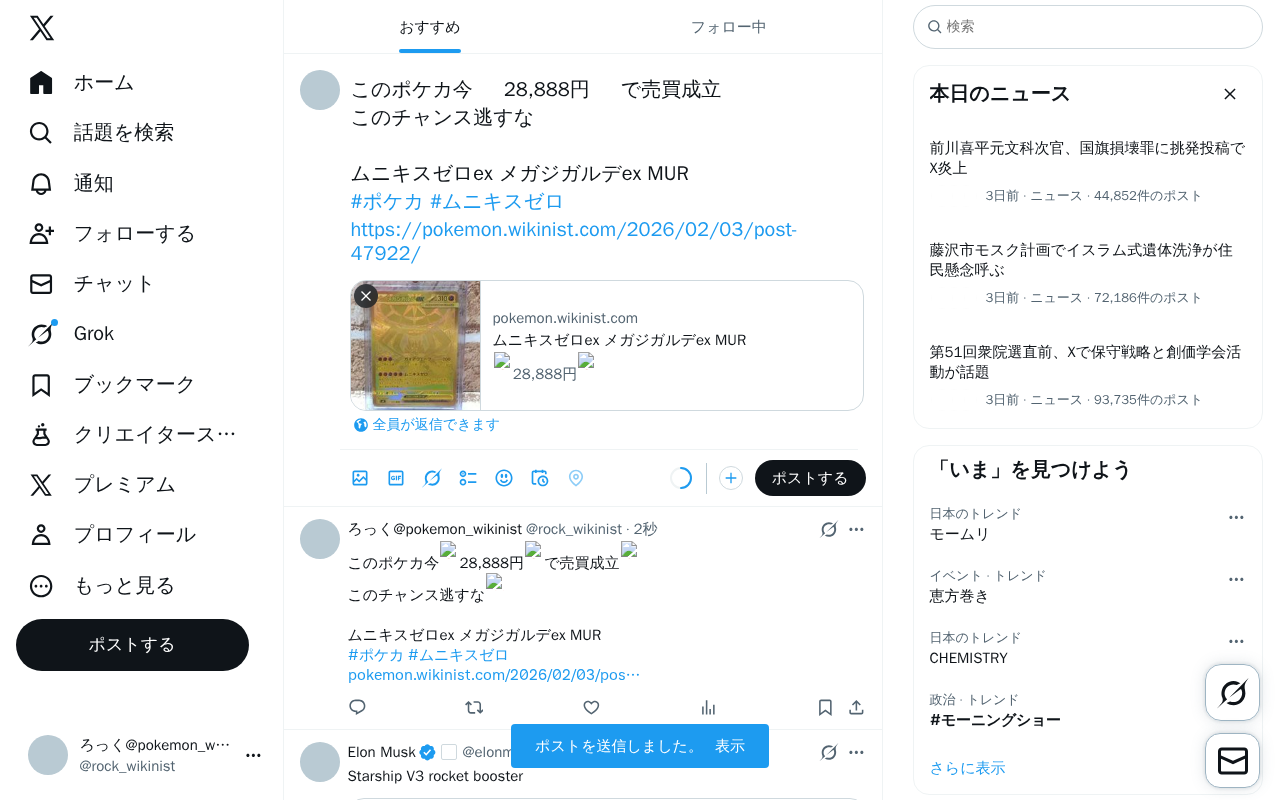
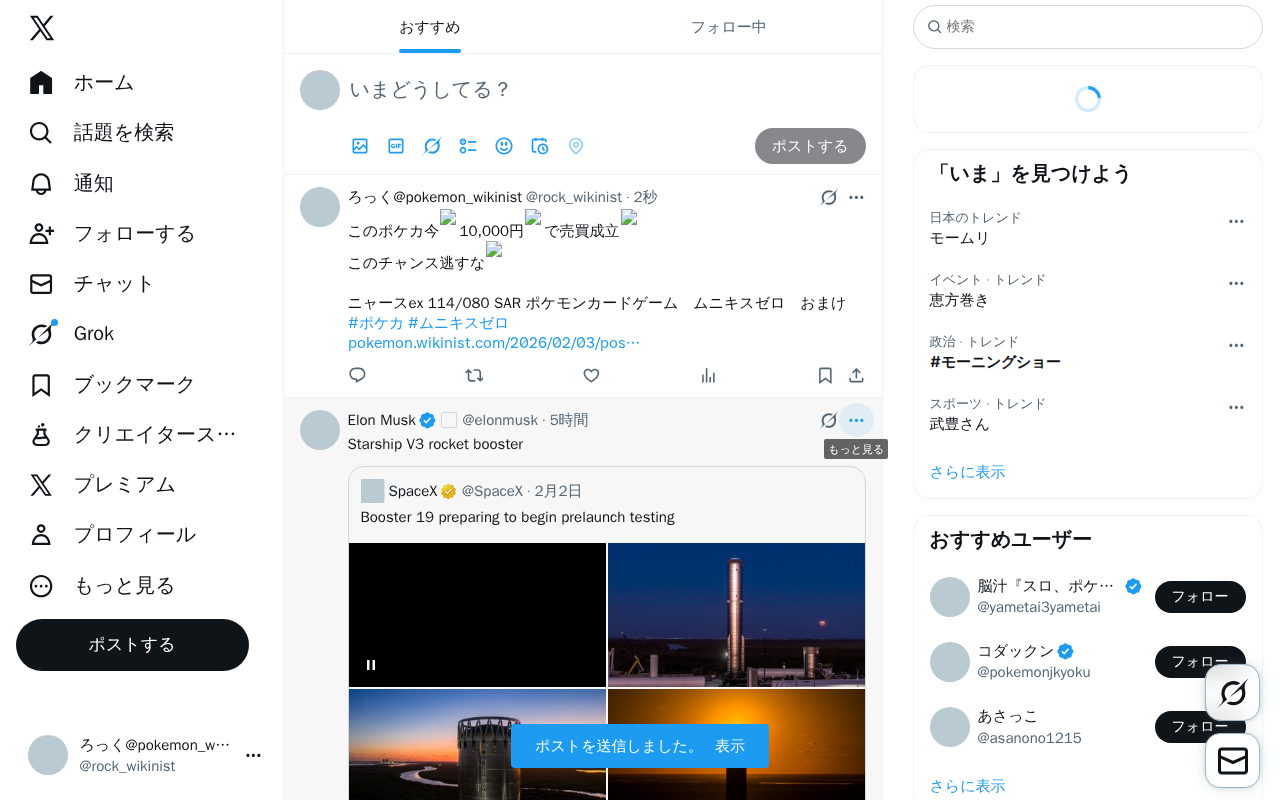
update system data

diff --git a/content/posts/test-pokemon-20260203-095323.md b/content/posts/test-pokemon-20260203-095323.md
@@ -1,0 +1,37 @@
+---
+title: "ニャースex 114/080 SAR ポケモンカードゲーム　ムニキスゼロ　おまけ"
+date: 2026-02-03T09:53:23+09:00
+description: "🔥10,000円🔥 メルカリで「ニャースex 114/080 SAR ポケモンカードゲーム　ムニキスゼロ　おまけ」が販売中！"
+amazon_url: "https://jp.mercari.com/item/m45026413654?afid=1391290753"
+categories: ["ポケモン"]
+tags: ["1万円以上"]
+cover:
+  image: "https://static.mercdn.net/thumb/item/webp/m45026413654_1.jpg?1770077101"
+  hiddenInList: true
+  hiddenInSingle: true
+---
+
+<div class="image-and-buttons">
+    <div class="image-area" style="margin-bottom: 20px; text-align: center;">
+        <a href="https://jp.mercari.com/item/m45026413654?afid=1391290753" target="_blank" rel="nofollow sponsored noopener noreferrer">
+            <img src="https://static.mercdn.net/thumb/item/webp/m45026413654_1.jpg?1770077101" alt="10,000" style="max-width: 100%; border-radius: 8px; border: 1px solid #ddd;" />
+        </a>
+        <br><span style="font-size:1.5em;color:red;font-weight:bold;">🔥10,000円🔥</span>
+    </div>
+    <div class="link-buttons">
+        <a href="https://jp.mercari.com/item/m45026413654?afid=1391290753" target="_blank" rel="nofollow sponsored noopener noreferrer">
+            💎 商品状態を見る
+        </a>
+        <a href="https://jp.mercari.com/search?afid=1391290753&category_id=1289&keyword=%E3%83%8B%E3%83%A3%E3%83%BC%E3%82%B9ex%20114%2F080%20SAR%20%E3%83%9D%E3%82%B1%E3%83%A2%E3%83%B3%E3%82%AB%E3%83%BC%E3%83%89%E3%82%B2%E3%83%BC%E3%83%A0%E3%80%80%E3%83%A0%E3%83%8B%E3%82%AD%E3%82%B9%E3%82%BC%E3%83%AD%E3%80%80%E3%81%8A%E3%81%BE%E3%81%91" target="_blank" rel="nofollow sponsored noopener noreferrer">
+            🔍 類似商品を見る
+        </a>
+        <a href="https://jp.mercari.com/search?afid=1391290753&brand_id=&category_id=1289&color_id=&item_condition_id=&item_types=&keyword=%E3%83%8B%E3%83%A3%E3%83%BC%E3%82%B9ex%20114%2F080%20SAR%20%E3%83%9D%E3%82%B1%E3%83%A2%E3%83%B3%E3%82%AB%E3%83%BC%E3%83%89%E3%82%B2%E3%83%BC%E3%83%A0%E3%80%80%E3%83%A0%E3%83%8B%E3%82%AD%E3%82%B9%E3%82%BC%E3%83%AD%E3%80%80%E3%81%8A%E3%81%BE%E3%81%91&order=desc&shipping_method=&shipping_payer_id=&size_id=&sort=created_time&status=sold_out%2Ctrading" target="_blank" rel="nofollow sponsored noopener noreferrer">
+            📈 価格推移・履歴を見る
+        </a>
+    </div>
+</div>
+
+<p style="font-size:1.0em;color:#555;line-height:1.6;">
+「ニャースex 114/080 SAR ポケモンカードゲーム　ムニキスゼロ　おまけ」はメルカリに出品されました！<br>
+最新のポケモン情報は当サイトで随時更新中です。
+</p>
